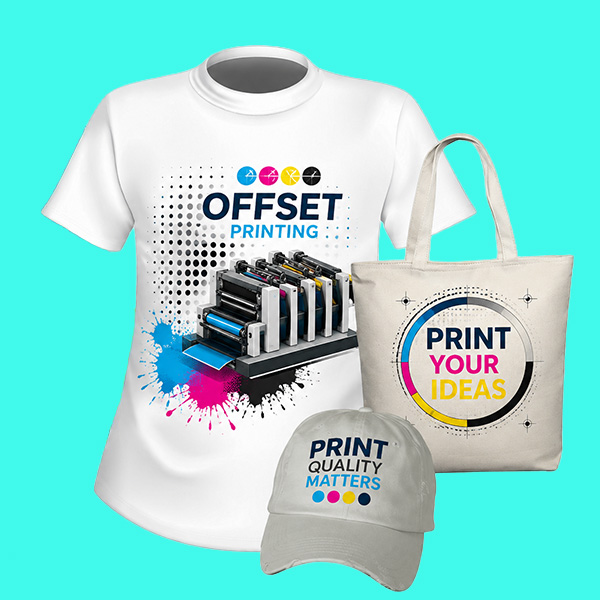
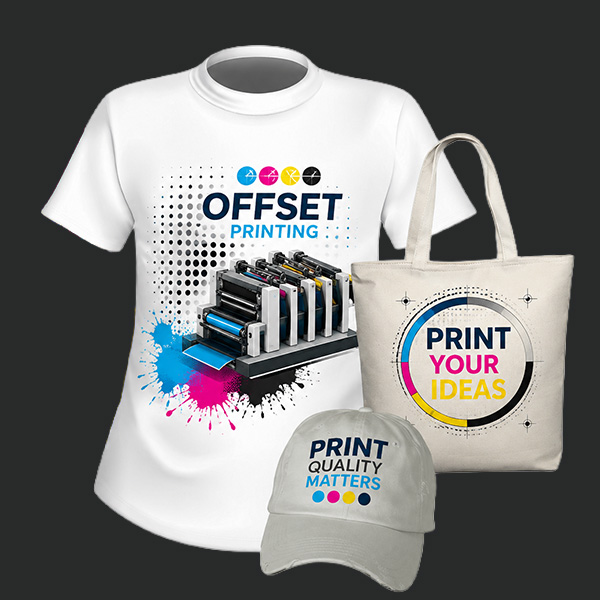
Maps editt

diff --git a/contact.html b/contact.html
@@ -107,7 +107,7 @@
         <button class="close-search"><span class="far fa-times"></span></button>
         <form action="#">
             <div class="form-group">
-                <input type="search" name="search-field" placeholder="Rechercher Here..." required>
+                <input type="search" name="search-field" placeholder="Rechercher ici..." required>
                 <button type="submit"><i class="far fa-search"></i></button>
             </div>
         </form>
@@ -174,7 +174,7 @@
                                     </div>
                                     <div class="contact-info-content">
                                         <h5>Bureau ouvert</h5>
-                                        <p>Sun - Fri (08AM - 10PM)</p>
+                                        <p>Lun - Sam (08AM - 10PM)</p>
                                     </div>
                                 </div>
                             </div>
@@ -190,26 +190,26 @@
                                         <div class="col-md-6">
                                             <div class="form-group">
                                                 <input type="text" class="form-control" name="name"
-                                                    placeholder="Your Name" required>
+                                                    placeholder="Votre nom" required>
                                             </div>
                                         </div>
                                         <div class="col-md-6">
                                             <div class="form-group">
                                                 <input type="email" class="form-control" name="email"
-                                                    placeholder="Your Email" required>
+                                                    placeholder="Votre adresse e-mail" required>
                                             </div>
                                         </div>
                                     </div>
                                     <div class="form-group">
                                         <input type="text" class="form-control" name="subject"
-                                            placeholder="Your Sujet" required>
+                                            placeholder="Votre sujet" required>
                                     </div>
                                     <div class="form-group">
                                         <textarea name="message" cols="30" rows="5" class="form-control"
-                                            placeholder="Write Your Message"></textarea>
+                                            placeholder="Écrivez votre message"></textarea>
                                     </div>
-                                    <button type="submit" class="theme-btn">Send
-                                        Message <i class="far fa-paper-plane"></i></button>
+                                    <button type="submit" class="theme-btn">Envoyer le message
+                                        <i class="far fa-paper-plane"></i></button>
                                     <div class="col-md-12 mt-3">
                                         <div class="form-messege text-success"></div>
                                     </div>
@@ -224,7 +224,7 @@
 
         <!-- map -->
         <div class="contact-map">
-            <iframe src="https://www.google.com/maps/embed?pb=!1m18!1m12!1m3!1d96708.34194156103!2d-74.03927096447748!3d40.759040329405195!2m3!1f0!2f0!3f0!3m2!1i1024!2i768!4f13.1!3m3!1m2!1s0x0%3A0x4a01c8df6fb3cb8!2sSolomon%20R.%20Guggenheim%20Museum!5e0!3m2!1sen!2sbd!4v1619410634508!5m2!1sen!2s"
+            <iframe src="https://maps.google.com/maps?q=Monastir%20Tunisie&t=&z=13&ie=UTF8&iwloc=&output=embed"
                 style="border:0;" allowfullscreen="" loading="lazy"></iframe>
         </div>
 
@@ -247,6 +247,7 @@
                                 Printpakia est votre partenaire d'impression à Monastir, Sousse et Mahdia pour vos brochures, flyers, affiches et packaging.
                             </p>
                             <ul class="footer-contact">
+                                <li><a href="#"><i class="far fa-map-marker-alt"></i>Avenue Habib Bourguiba, Monastir 5031, Tunisia</a></li>
                                 <li><a href="mailto:[email redacted]"><i class="far fa-envelope"></i>[email redacted]</a></li>
                                 <li><a href="tel:[phone redacted]"><i class="far fa-phone"></i>([phone redacted] 76</a></li>
                                 <li><a href="tel:[phone redacted]"><i class="far fa-phone"></i>([phone redacted] 07</a></li>
@@ -286,7 +287,7 @@
                                 <p>Abonnez-vous à notre Bulletin pour recevoir les dernières mises à jour et actualités</p>
                                 <div class="subscribe-form">
                                     <form action="#">
-                                        <input type="email" class="form-control" placeholder="Your Email">
+                                        <input type="email" class="form-control" placeholder="Votre adresse e-mail">
                                         <button class="theme-btn" type="submit">
                                             <span class="far fa-envelope"></span> S'abonner maintenant
                                         </button>

diff --git a/index.html b/index.html
@@ -102,7 +102,7 @@
         <button class="close-search"><span class="far fa-times"></span></button>
         <form action="#">
             <div class="form-group">
-                <input type="search" name="search-field" placeholder="Rechercher Here..." required="">
+                <input type="search" name="search-field" placeholder="Rechercher ici..." required="">
                 <button type="submit"><i class="far fa-search"></i></button>
             </div>
         </form>
@@ -966,7 +966,7 @@ Printpakia, expert en impression offset et packaging à Monastir, Sousse et Mahd
                                     <div class="row">
                                         <div class="col-md-6">
                                             <div class="form-group">
-                                                <input type="text" name="name" class="form-control" placeholder="Your Name">
+                                                <input type="text" name="name" class="form-control" placeholder="Votre nom">
                                             </div>
                                         </div>
                                         <div class="col-md-6">
@@ -1114,6 +1114,7 @@ Printpakia, expert en impression offset et packaging à Monastir, Sousse et Mahd
                                 Printpakia est votre partenaire d'impression à Monastir, Sousse et Mahdia pour vos brochures, flyers, affiches et packaging.
                             </p>
                             <ul class="footer-contact">
+                                <li><a href="#"><i class="far fa-map-marker-alt"></i>Avenue Habib Bourguiba, Monastir 5031, Tunisia</a></li>
                                 <li><a href="mailto:[email redacted]"><i class="far fa-envelope"></i>[email redacted]</a></li>
                                 <li><a href="tel:[phone redacted]"><i class="far fa-phone"></i>([phone redacted] 76</a></li>
                                 <li><a href="tel:[phone redacted]"><i class="far fa-phone"></i>([phone redacted] 07</a></li>
@@ -1153,7 +1154,7 @@ Printpakia, expert en impression offset et packaging à Monastir, Sousse et Mahd
                                 <p>Abonnez-vous à notre Bulletin pour recevoir les dernières mises à jour et actualités</p>
                                 <div class="subscribe-form">
                                     <form action="#">
-                                        <input type="email" class="form-control" placeholder="Your Email">
+                                        <input type="email" class="form-control" placeholder="Votre adresse e-mail">
                                         <button class="theme-btn" type="submit">
                                             <span class="far fa-envelope"></span> S'abonner maintenant
                                         </button>
@@ -1171,7 +1172,7 @@ Printpakia, expert en impression offset et packaging à Monastir, Sousse et Mahd
                     <div class="col-md-6 align-self-center">
                         <p class="copyright-text">
                              &copy; Copyright <span id="date"></span> <a href="#"> PrintPakia </a> All Rights Reserved. By <a href="https://ibrahim.tn/"> Lokmani Ibrahim </a>
-                        </p> By <a href="https://ibrahim.tn/"> Lokmani Ibrahim </a>
+                      
                         </p>
                     </div>
                     <div class="col-md-6 align-self-center">

diff --git a/404.html b/404.html
@@ -107,7 +107,7 @@
         <button class="close-search"><span class="far fa-times"></span></button>
         <form action="#">
             <div class="form-group">
-                <input type="search" name="search-field" placeholder="Rechercher Here..." required>
+                <input type="search" name="search-field" placeholder="Rechercher ici..." required>
                 <button type="submit"><i class="far fa-search"></i></button>
             </div>
         </form>
@@ -166,6 +166,7 @@
                                 Printpakia est votre partenaire d'impression à Monastir, Sousse et Mahdia pour vos brochures, flyers, affiches et packaging.
                             </p>
                             <ul class="footer-contact">
+                                <li><a href="#"><i class="far fa-map-marker-alt"></i>Avenue Habib Bourguiba, Monastir 5031, Tunisia</a></li>
                                 <li><a href="mailto:[email redacted]"><i class="far fa-envelope"></i>[email redacted]</a></li>
                                 <li><a href="tel:[phone redacted]"><i class="far fa-phone"></i>([phone redacted] 76</a></li>
                                 <li><a href="tel:[phone redacted]"><i class="far fa-phone"></i>([phone redacted] 07</a></li>
@@ -205,7 +206,7 @@
                                 <p>Abonnez-vous à notre Bulletin pour recevoir les dernières mises à jour et actualités</p>
                                 <div class="subscribe-form">
                                     <form action="#">
-                                        <input type="email" class="form-control" placeholder="Your Email">
+                                        <input type="email" class="form-control" placeholder="Votre adresse e-mail">
                                         <button class="theme-btn" type="submit">
                                             <span class="far fa-envelope"></span> S'abonner maintenant
                                         </button>

diff --git a/about.html b/about.html
@@ -107,7 +107,7 @@
         <button class="close-search"><span class="far fa-times"></span></button>
         <form action="#">
             <div class="form-group">
-                <input type="search" name="search-field" placeholder="Rechercher Here..." required>
+                <input type="search" name="search-field" placeholder="Rechercher ici..." required>
                 <button type="submit"><i class="far fa-search"></i></button>
             </div>
         </form>
@@ -484,6 +484,7 @@
                                 Printpakia est votre partenaire d'impression à Monastir, Sousse et Mahdia pour vos brochures, flyers, affiches et packaging.
                             </p>
                             <ul class="footer-contact">
+                                <li><a href="#"><i class="far fa-map-marker-alt"></i>Avenue Habib Bourguiba, Monastir 5031, Tunisia</a></li>
                                 <li><a href="mailto:[email redacted]"><i class="far fa-envelope"></i>[email redacted]</a></li>
                                 <li><a href="tel:[phone redacted]"><i class="far fa-phone"></i>([phone redacted] 76</a></li>
                                 <li><a href="tel:[phone redacted]"><i class="far fa-phone"></i>([phone redacted] 07</a></li>
@@ -523,7 +524,7 @@
                                 <p>Abonnez-vous à notre Bulletin pour recevoir les dernières mises à jour et actualités</p>
                                 <div class="subscribe-form">
                                     <form action="#">
-                                        <input type="email" class="form-control" placeholder="Your Email">
+                                        <input type="email" class="form-control" placeholder="Votre adresse e-mail">
                                         <button class="theme-btn" type="submit">
                                             <span class="far fa-envelope"></span> S'abonner maintenant
                                         </button>

diff --git a/faq.html b/faq.html
@@ -107,7 +107,7 @@
         <button class="close-search"><span class="far fa-times"></span></button>
         <form action="#">
             <div class="form-group">
-                <input type="search" name="search-field" placeholder="Rechercher Here..." required>
+                <input type="search" name="search-field" placeholder="Rechercher ici..." required>
                 <button type="submit"><i class="far fa-search"></i></button>
             </div>
         </form>
@@ -222,6 +222,7 @@
                                 Printpakia est votre partenaire d'impression à Monastir, Sousse et Mahdia pour vos brochures, flyers, affiches et packaging.
                             </p>
                             <ul class="footer-contact">
+                                <li><a href="#"><i class="far fa-map-marker-alt"></i>Avenue Habib Bourguiba, Monastir 5031, Tunisia</a></li>
                                 <li><a href="mailto:[email redacted]"><i class="far fa-envelope"></i>[email redacted]</a></li>
                                 <li><a href="tel:[phone redacted]"><i class="far fa-phone"></i>([phone redacted] 76</a></li>
                                 <li><a href="tel:[phone redacted]"><i class="far fa-phone"></i>([phone redacted] 07</a></li>
@@ -261,7 +262,7 @@
                                 <p>Abonnez-vous à notre Bulletin pour recevoir les dernières mises à jour et actualités</p>
                                 <div class="subscribe-form">
                                     <form action="#">
-                                        <input type="email" class="form-control" placeholder="Your Email">
+                                        <input type="email" class="form-control" placeholder="Votre adresse e-mail">
                                         <button class="theme-btn" type="submit">
                                             <span class="far fa-envelope"></span> S'abonner maintenant
                                         </button>

diff --git a/project.html b/project.html
@@ -107,7 +107,7 @@
         <button class="close-search"><span class="far fa-times"></span></button>
         <form action="#">
             <div class="form-group">
-                <input type="search" name="search-field" placeholder="Rechercher Here..." required>
+                <input type="search" name="search-field" placeholder="Rechercher ici..." required>
                 <button type="submit"><i class="far fa-search"></i></button>
             </div>
         </form>
@@ -259,6 +259,7 @@
                                 Printpakia est votre partenaire d'impression à Monastir, Sousse et Mahdia pour vos brochures, flyers, affiches et packaging.
                             </p>
                             <ul class="footer-contact">
+                                <li><a href="#"><i class="far fa-map-marker-alt"></i>Avenue Habib Bourguiba, Monastir 5031, Tunisia</a></li>
                                 <li><a href="mailto:[email redacted]"><i class="far fa-envelope"></i>[email redacted]</a></li>
                                 <li><a href="tel:[phone redacted]"><i class="far fa-phone"></i>([phone redacted] 76</a></li>
                                 <li><a href="tel:[phone redacted]"><i class="far fa-phone"></i>([phone redacted] 07</a></li>
@@ -298,7 +299,7 @@
                                 <p>Abonnez-vous à notre Bulletin pour recevoir les dernières mises à jour et actualités</p>
                                 <div class="subscribe-form">
                                     <form action="#">
-                                        <input type="email" class="form-control" placeholder="Your Email">
+                                        <input type="email" class="form-control" placeholder="Votre adresse e-mail">
                                         <button class="theme-btn" type="submit">
                                             <span class="far fa-envelope"></span> S'abonner maintenant
                                         </button>

diff --git a/service.html b/service.html
@@ -107,7 +107,7 @@
         <button class="close-search"><span class="far fa-times"></span></button>
         <form action="#">
             <div class="form-group">
-                <input type="search" name="search-field" placeholder="Rechercher Here..." required>
+                <input type="search" name="search-field" placeholder="Rechercher ici..." required>
                 <button type="submit"><i class="far fa-search"></i></button>
             </div>
         </form>
@@ -315,6 +315,7 @@
                                 Printpakia est votre partenaire d'impression à Monastir, Sousse et Mahdia pour vos brochures, flyers, affiches et packaging.
                             </p>
                             <ul class="footer-contact">
+                                <li><a href="#"><i class="far fa-map-marker-alt"></i>Avenue Habib Bourguiba, Monastir 5031, Tunisia</a></li>
                                 <li><a href="mailto:[email redacted]"><i class="far fa-envelope"></i>[email redacted]</a></li>
                                 <li><a href="tel:[phone redacted]"><i class="far fa-phone"></i>([phone redacted] 76</a></li>
                                 <li><a href="tel:[phone redacted]"><i class="far fa-phone"></i>([phone redacted] 07</a></li>
@@ -354,7 +355,7 @@
                                 <p>Abonnez-vous à notre Bulletin pour recevoir les dernières mises à jour et actualités</p>
                                 <div class="subscribe-form">
                                     <form action="#">
-                                        <input type="email" class="form-control" placeholder="Your Email">
+                                        <input type="email" class="form-control" placeholder="Votre adresse e-mail">
                                         <button class="theme-btn" type="submit">
                                             <span class="far fa-envelope"></span> S'abonner maintenant
                                         </button>